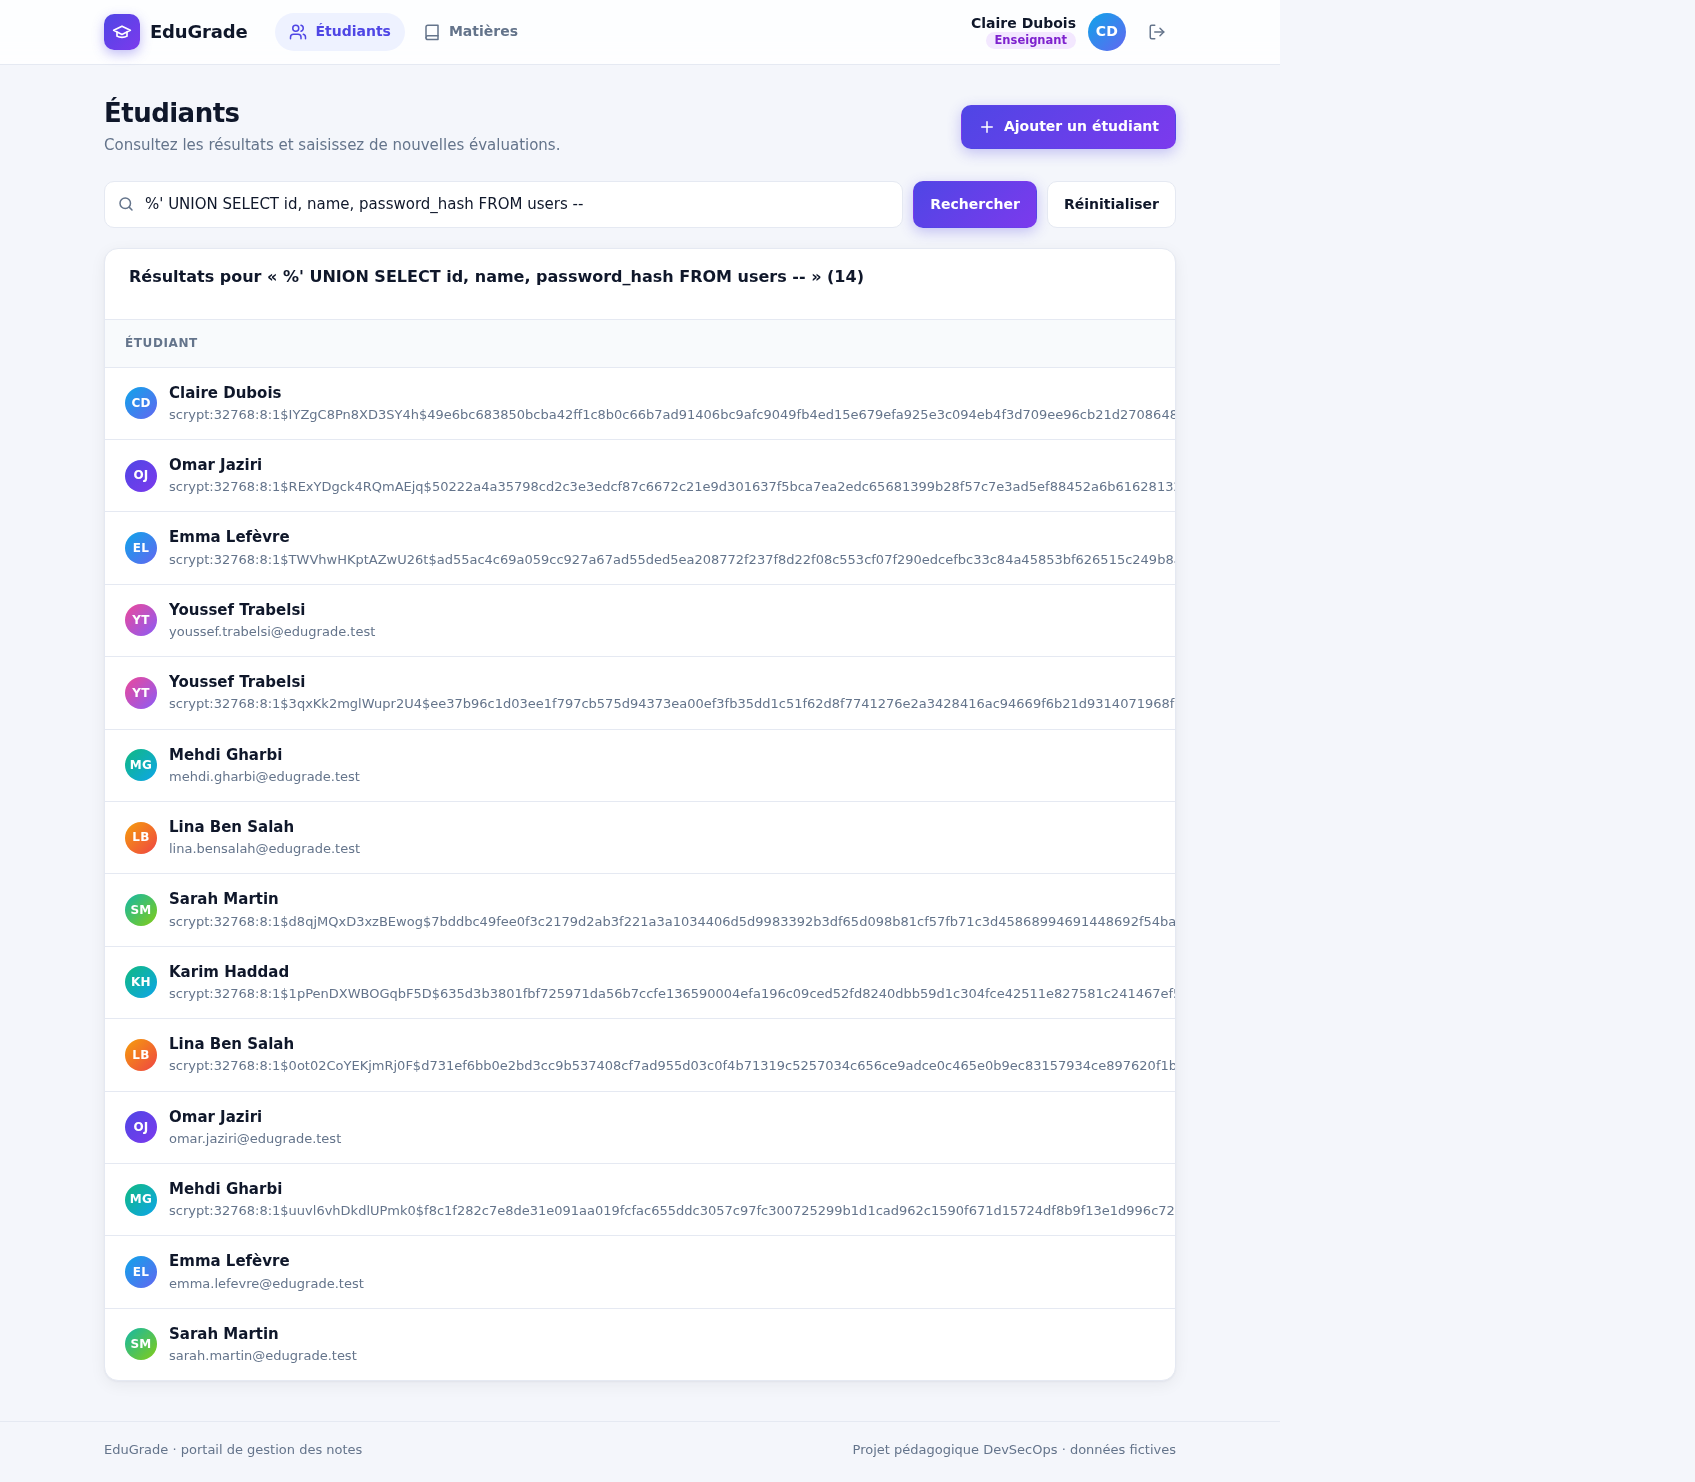
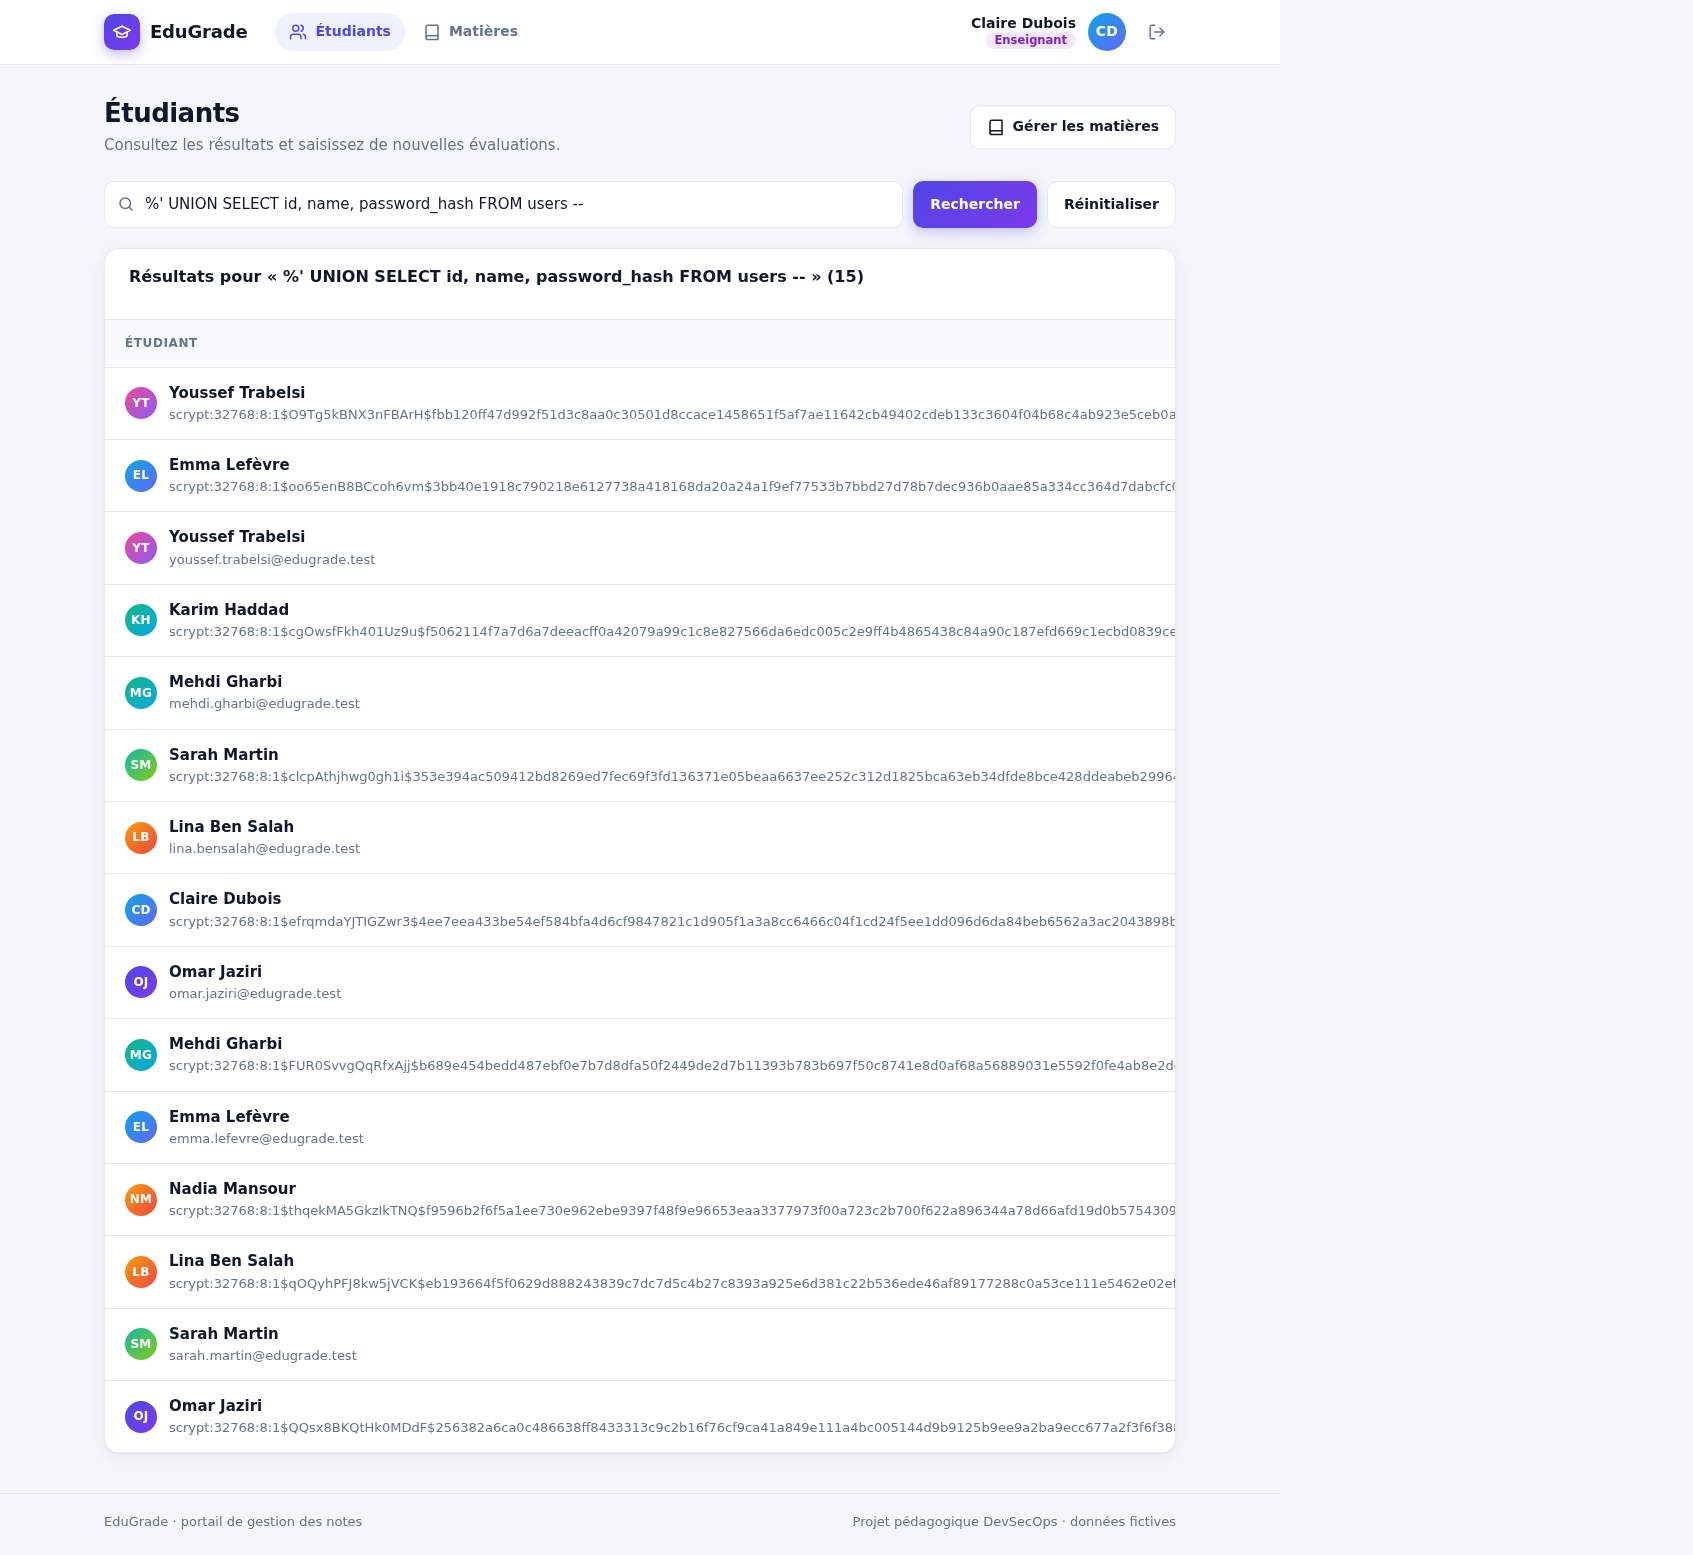
docs: décrit les trois rôles et le CRUD, met à jour les preuves et l'emplacement des failles

diff --git a/scripts/capture_app.py b/scripts/capture_app.py
@@ -30,6 +30,7 @@ if _deps.is_dir() and str(_deps) not in os.environ.get("LD_LIBRARY_PATH", ""):
 
 from playwright.sync_api import Browser, Page, sync_playwright  # noqa: E402
 
+ADMIN = ("nadia.mansour@edugrade.test", "nadia2026")
 TEACHER = ("claire.dubois@edugrade.test", "claire2026")
 STUDENT = ("lina.bensalah@edugrade.test", "lina2026")
 VICTIM = "Youssef Trabelsi"
@@ -218,21 +219,28 @@ def main() -> int:
                 + ["", "# En-têtes de sécurité"]
                 + [f"{h}: {'PRÉSENT' if h in headers else 'ABSENT'}" for h in SECURITY_HEADERS])
 
-        # Gestion : création d'un étudiant et d'une matière (après les démonstrations,
-        # pour ne pas modifier les chiffres des failles)
-        teacher.goto(f"{base}/teacher/students/new")
-        teacher.fill("#name", "Nour Haddad")
-        teacher.fill("#email", f"nour.haddad.{args.phase}@edugrade.test")
-        teacher.fill("#password", "nour-initial-1")
-        rec.shot(teacher, 31, "ajout-etudiant-formulaire")
-        teacher.click("main form.form button[type=submit]")
-        teacher.wait_for_load_state("networkidle")
-        rec.shot(teacher, 32, "ajout-etudiant-resultat")
+        # Gestion (après les démonstrations, pour ne pas modifier les chiffres des failles)
+        # Administrateur : création d'un compte enseignant puis liste des comptes
+        admin = login(browser, base, ADMIN)
+        admin.goto(f"{base}/admin/users/new?role=teacher")
+        admin.fill("#name", "Samir Ayari")
+        admin.fill("#email", f"samir.ayari.{args.phase}@edugrade.test")
+        admin.fill("#password", "samir-initial-1")
+        rec.shot(admin, 32, "admin-ajout-utilisateur")
+        admin.click("main form.form button[type=submit]")
+        admin.wait_for_load_state("networkidle")
+        rec.shot(admin, 31, "admin-utilisateurs")
+
+        # Enseignante : ajout d'une matière, puis confirmation de suppression d'une note
         teacher.goto(f"{base}/teacher/subjects")
         teacher.fill("#name", "Sécurité des applications")
         teacher.click("main form.inline-form button[type=submit]")
         teacher.wait_for_load_state("networkidle")
         rec.shot(teacher, 33, "matieres")
+        teacher.goto(f"{base}/grades/{sarah}")
+        teacher.locator('[data-testid="delete-grade"]').first.click()
+        teacher.wait_for_load_state("networkidle")
+        rec.shot(teacher, 34, "suppression-note-confirmation")
 
         browser.close()
 

diff --git a/README.md b/README.md
@@ -1,8 +1,8 @@
 # EduGrade — Portail de notes sécurisé (DevSecOps)
 
-EduGrade est un portail web de gestion de notes universitaires : les enseignants
-gèrent les étudiants, les matières et les évaluations ; chaque étudiant consulte
-ses propres résultats. Le projet sert de support au module **DevSecOps
+EduGrade est un portail web de gestion de notes universitaires : l'administrateur
+gère les comptes enseignants et étudiants, les enseignants gèrent les matières et
+les évaluations, chaque étudiant consulte ses propres résultats. Le projet sert de support au module **DevSecOps
 (ING-5-SSIR)** : l'application est **volontairement vulnérable**, puis chaque faille
 est **détectée** par une chaîne d'outils automatisée et **corrigée**, preuves
 avant/après à l'appui.
@@ -24,7 +24,7 @@ Le cycle suit six étapes : **écrire → construire → tester → livrer → d
 
 | Bloc | Rôle | Technologies |
 |------|------|--------------|
-| **1. Utilisateurs** | Étudiants (consultation de leurs notes) et enseignants (gestion des étudiants, matières et notes), avec des données fictives | Navigateur |
+| **1. Utilisateurs** | Administrateur (comptes), enseignants (matières et notes) et étudiants (consultation de leurs notes), avec des données fictives | Navigateur |
 | **2. Code et infrastructure** | Le code vit sur GitHub (branches `feature/*`, Pull Requests relues). Le dépôt lui-même (branches, protection de `main`, collaboratrice, secrets) et la configuration du cluster sont créés par **Terraform** | Git, GitHub, Terraform |
 | **3. Pipeline CI/CD bloquant** | Chaque Pull Request passe par des contrôles successifs ; **une faille détectée bloque la livraison** | GitHub Actions, pytest, Semgrep, Bandit, Gitleaks, Trivy, Checkov, Docker, Syft, Cosign, OWASP ZAP |
 | **4. Registre** | Les images publiées portent le SHA du commit, une SBOM et une signature vérifiable | GitHub Container Registry |
@@ -47,8 +47,9 @@ Navigateur ──HTTP:8080──▶ frontend : Nginx (reverse proxy, non-root)
 
 | Rôle | Fonctionnalités |
 |------|-----------------|
-| Étudiant | Tableau de bord (moyenne, mention, meilleure note, notes récentes) ; consultation de ses notes par matière |
-| Enseignant | Liste et recherche des étudiants avec leur moyenne ; ajout et modification de notes ; création de comptes étudiants ; gestion des matières ; statistiques de la promotion |
+| Administrateur | **CRUD des comptes** enseignants et étudiants : création (mot de passe initial haché), liste filtrable par rôle, modification (nom, e-mail, mot de passe), suppression avec confirmation (les notes d'un étudiant supprimé sont supprimées aussi) |
+| Enseignant | **CRUD des notes** (ajout, modification, suppression avec confirmation) ; **CRUD des matières** (le renommage met à jour les notes, la suppression d'une matière utilisée est refusée) ; liste et recherche des étudiants avec leur moyenne ; statistiques de la promotion |
+| Étudiant | Lecture seule : tableau de bord (moyenne, mention, meilleure note, notes récentes) et consultation de ses notes par matière |
 
 Sécurité applicative :
 - rôles contrôlés **côté serveur** ;
@@ -60,7 +61,8 @@ Sécurité applicative :
 Journaux applicatifs **JSON** sur la sortie standard, une ligne par événement
 (`timestamp`, `level`, `event`, `user_id`, `role`, `route`, `ip`, `status`) :
 `login_success`, `login_failed`, `access_denied`, `suspicious_input`,
-`grade_created`, `grade_updated`, `student_created`, `subject_created`.
+`grade_created`, `grade_updated`, `grade_deleted`, `subject_created`,
+`subject_updated`, `subject_deleted`, `user_created`, `user_updated`, `user_deleted`.
 Jamais de mot de passe, de secret ni de valeur de note.
 
 ## Vulnérabilités volontaires
@@ -110,6 +112,7 @@ de `2026`** (exemple : `lina2026`).
 
 | Rôle | E-mail |
 |------|--------|
+| Administratrice | `nadia.mansour@edugrade.test` |
 | Enseignante | `claire.dubois@edugrade.test` |
 | Enseignant | `karim.haddad@edugrade.test` |
 | Étudiante | `lina.bensalah@edugrade.test` |
@@ -182,7 +185,7 @@ edugrade-devsecops/
 | Élément | État |
 |---------|------|
 | Dépôt GitHub provisionné par Terraform | ✅ |
-| Application Flask + PostgreSQL, deux rôles, gestion des étudiants et matières | ✅ |
+| Application Flask + PostgreSQL, trois rôles (administrateur, enseignant, étudiant), CRUD des comptes, notes et matières | ✅ |
 | Failles volontaires V1–V4, Bonus 1 et 2, documentées et prouvées | ✅ |
 | Docker multi-stage non-root, Nginx, Docker Compose | ✅ |
 | Tests fonctionnels et de sécurité | ✅ |

diff --git a/docs/VULNERABILITES.md b/docs/VULNERABILITES.md
@@ -16,7 +16,7 @@ ici ni dans les preuves (masquées `****MASQUÉ****`).
 | V2 | Injection SQL (recherche) | `app/teacher.py:20-22` | A03 Injection | Semgrep, Bandit, ZAP, test pytest `tests/security/test_sqli.py` | [27](preuves/captures/27-app-v2-sqli-tautologie-avant.png), [28](preuves/captures/28-app-v2-sqli-union-avant.png), [09](preuves/captures/09-semgrep.png), [10](preuves/captures/10-bandit.png) |
 | V3 | Secrets écrits en dur | `app/config.py:22-24` | A07 Identification and Authentication Failures (CWE-798) | Gitleaks, Bandit | [07](preuves/captures/07-gitleaks-detect.png) |
 | V4 | Dépendance vulnérable (PyYAML 5.3.1) | `requirements.txt:5-6`, utilisée dans `app/config.py:14-17` | A06 Vulnerable and Outdated Components | Trivy fs, Trivy image | [08](preuves/captures/08-trivy-fs.png), [17](preuves/captures/17-trivy-image.png) |
-| Bonus 1 | En-têtes de sécurité absents | `docker/nginx.conf:4`, `app/__init__.py:66` | A05 Security Misconfiguration | ZAP baseline | [30](preuves/captures/30-app-b1-entetes-avant.png) |
+| Bonus 1 | En-têtes de sécurité absents | `docker/nginx.conf:4`, `app/__init__.py:64` | A05 Security Misconfiguration | ZAP baseline | [30](preuves/captures/30-app-b1-entetes-avant.png) |
 | Bonus 2 | XSS réfléchi | `app/templates/teacher/students.html:45-46` | A03 Injection (CWE-79) | Semgrep, ZAP | [29](preuves/captures/29-app-b2-xss-avant.png), [09](preuves/captures/09-semgrep.png) |
 
 La faille V5 (mauvaise configuration IaC du cluster) relève de la Partie 2.
@@ -66,8 +66,8 @@ La faille V5 (mauvaise configuration IaC du cluster) relève de la Partie 2.
 - **OWASP** : A03:2021 Injection (CWE-89).
 - **Reproduire** (connecté en enseignant `claire.dubois@edugrade.test` / `claire2026`) :
   - `q = ' OR '1'='1` → les 6 étudiants sont renvoyés au lieu de 0 ;
-  - `q = %' UNION SELECT id, name, password_hash FROM users --` → 14 lignes, dont les
-    8 hachages scrypt des comptes (colonne « E-mail »).
+  - `q = %' UNION SELECT id, name, password_hash FROM users --` → 15 lignes, dont les
+    9 hachages scrypt de tous les comptes, administrateur compris (colonne « E-mail »).
   ```bash
   pytest -m security tests/security/test_sqli.py   # échoue sur v0.1-vulnerable
   ```
@@ -126,7 +126,7 @@ La faille V5 (mauvaise configuration IaC du cluster) relève de la Partie 2.
 
 ## Bonus 1 — En-têtes de sécurité HTTP absents
 
-- **Emplacement** : `docker/nginx.conf:4` (reverse proxy) et `app/__init__.py:66`
+- **Emplacement** : `docker/nginx.conf:4` (reverse proxy) et `app/__init__.py:64`
   (Flask) : aucun des deux n'ajoute d'en-tête de sécurité.
 - **Cause** : configuration par défaut, sans `Content-Security-Policy`,
   `X-Frame-Options`, `X-Content-Type-Options` ni `Referrer-Policy`.

diff --git a/docs/preuves/INDEX.md b/docs/preuves/INDEX.md
@@ -64,9 +64,10 @@ Générées par `scripts/capture_app.py --phase avant` sur l'instance Docker Com
 | 28 | **V2 injection SQL** : `UNION` exfiltre les hachages de mots de passe | [captures/28-app-v2-sqli-union-avant.png](captures/28-app-v2-sqli-union-avant.png) | [logs/27-app-v2-sqli-avant.txt](logs/27-app-v2-sqli-avant.txt) |
 | 29 | **Bonus 2 XSS** : script injecté exécuté (bannière rouge) | [captures/29-app-b2-xss-avant.png](captures/29-app-b2-xss-avant.png) | [logs/29-app-b2-xss-avant.txt](logs/29-app-b2-xss-avant.txt) |
 | 30 | **Bonus 1** : en-têtes de sécurité absents (cookie masqué) | [captures/30-app-b1-entetes-avant.png](captures/30-app-b1-entetes-avant.png) | [logs/30-app-b1-entetes-avant.txt](logs/30-app-b1-entetes-avant.txt) |
-| 31 | Enseignante : formulaire de création d'un compte étudiant | [captures/31-app-ajout-etudiant-formulaire-avant.png](captures/31-app-ajout-etudiant-formulaire-avant.png) | |
-| 32 | Compte étudiant créé (page de ses notes, vide) | [captures/32-app-ajout-etudiant-resultat-avant.png](captures/32-app-ajout-etudiant-resultat-avant.png) | |
-| 33 | Gestion des matières : ajout d'une matière, nombre de notes et moyenne par matière | [captures/33-app-matieres-avant.png](captures/33-app-matieres-avant.png) | |
+| 31 | Administratrice : liste des comptes (filtres par rôle, modifier, supprimer) après création d'un enseignant | [captures/31-app-admin-utilisateurs-avant.png](captures/31-app-admin-utilisateurs-avant.png) | |
+| 32 | Administratrice : formulaire de création d'un compte (rôle, nom, e-mail, mot de passe initial) | [captures/32-app-admin-ajout-utilisateur-avant.png](captures/32-app-admin-ajout-utilisateur-avant.png) | |
+| 33 | Enseignante : gestion des matières (ajout, modification, suppression ; notes et moyenne par matière) | [captures/33-app-matieres-avant.png](captures/33-app-matieres-avant.png) | |
+| 34 | Enseignante : confirmation avant suppression d'une note | [captures/34-app-suppression-note-confirmation-avant.png](captures/34-app-suppression-note-confirmation-avant.png) | |
 
 ### Captures manuelles (navigateur)
 
